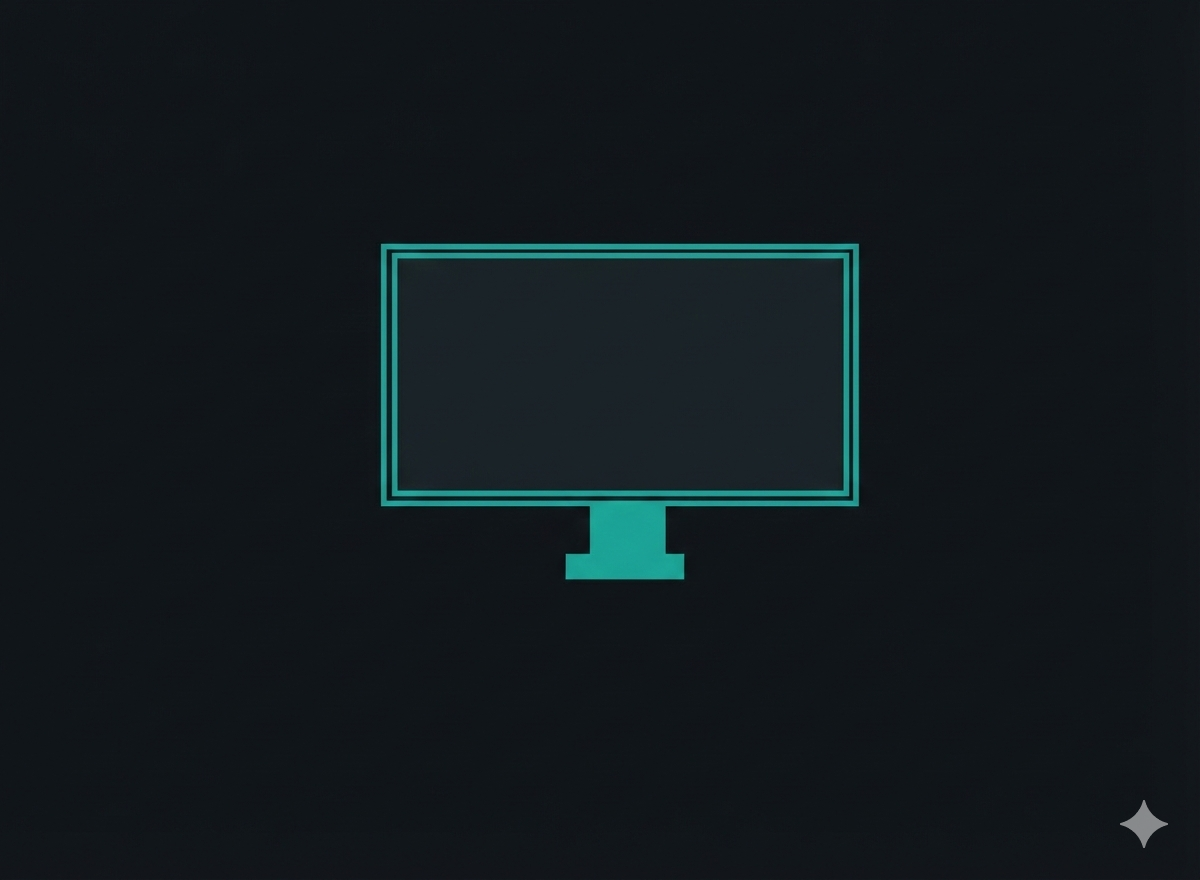
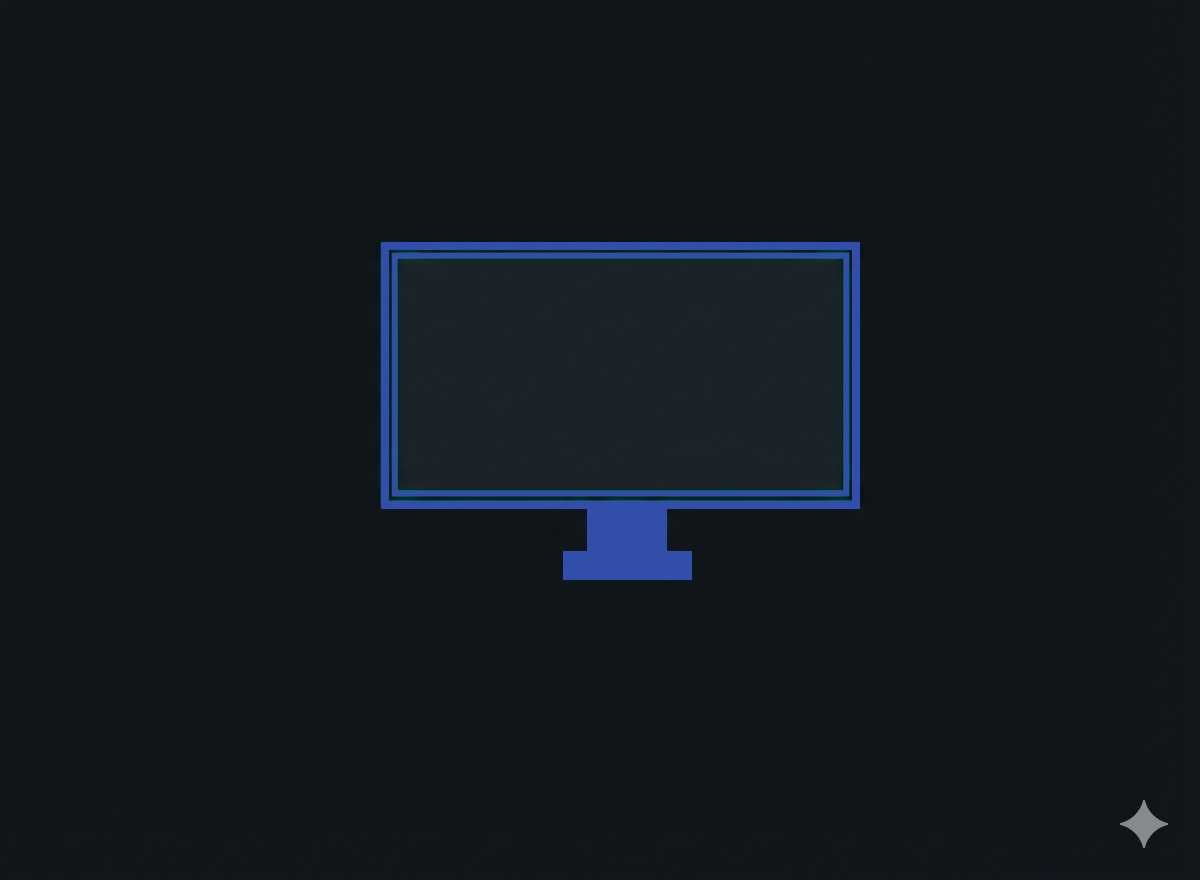
theme

Changed region(s): [[0.3083, 0.2761, 0.74, 0.675]]

diff --git a/src/index.css b/src/index.css
@@ -1,16 +1,16 @@
 @import "tailwindcss";
 
 @theme {
-  --color-background: #0f1418;
+  --color-background: #0B1215;
   --color-foreground: #f0f2f5;
 
   --color-card: #141a1f;
 
-  --color-primary: #20b2a6;
+  --color-primary: #324eab;
   --color-primary-foreground: #ffffff;
 
   --color-secondary: #1f2830;
-  --color-secondary-foreground: #20b2a6;
+  --color-secondary-foreground: #324eab;
 
   --color-muted: #252e37;
   --color-muted-foreground: #7a8491;
@@ -177,11 +177,11 @@
   .animated-border:hover {
     background-color: color-mix(
       in srgb,
-      #26c4b8 15%,
+      #2660c4 15%,
       transparent
     );
     backdrop-filter: blur(16px);
-    box-shadow: 0 0 20px color-mix(in srgb, #26c4b8 20%, transparent);
+    box-shadow: 0 0 20px color-mix(in srgb, #2660c4 20%, transparent);
   }
 
   .timeline-glow {

diff --git a/src/sections/Hero.jsx b/src/sections/Hero.jsx
@@ -38,7 +38,7 @@ export const Hero = () => {
             <div className="absolute inset-0 overflow-hidden pointer-events-auto">
                 {[...Array(30)].map((_,i) => (
                     <div key={i} className="absolute w-1.5 h-1.5 rounded-full opacity-60"
-                        style={{ backgroundColor:"#20b2a6",
+                        style={{ backgroundColor:"#324eab",
                             left: `${Math.random() * 100}%`,
                             top: `${Math.random() * 100}%`,
                             animation: `slow-drift ${15 + Math.random() * 20}s ease-in-out infinite`,
